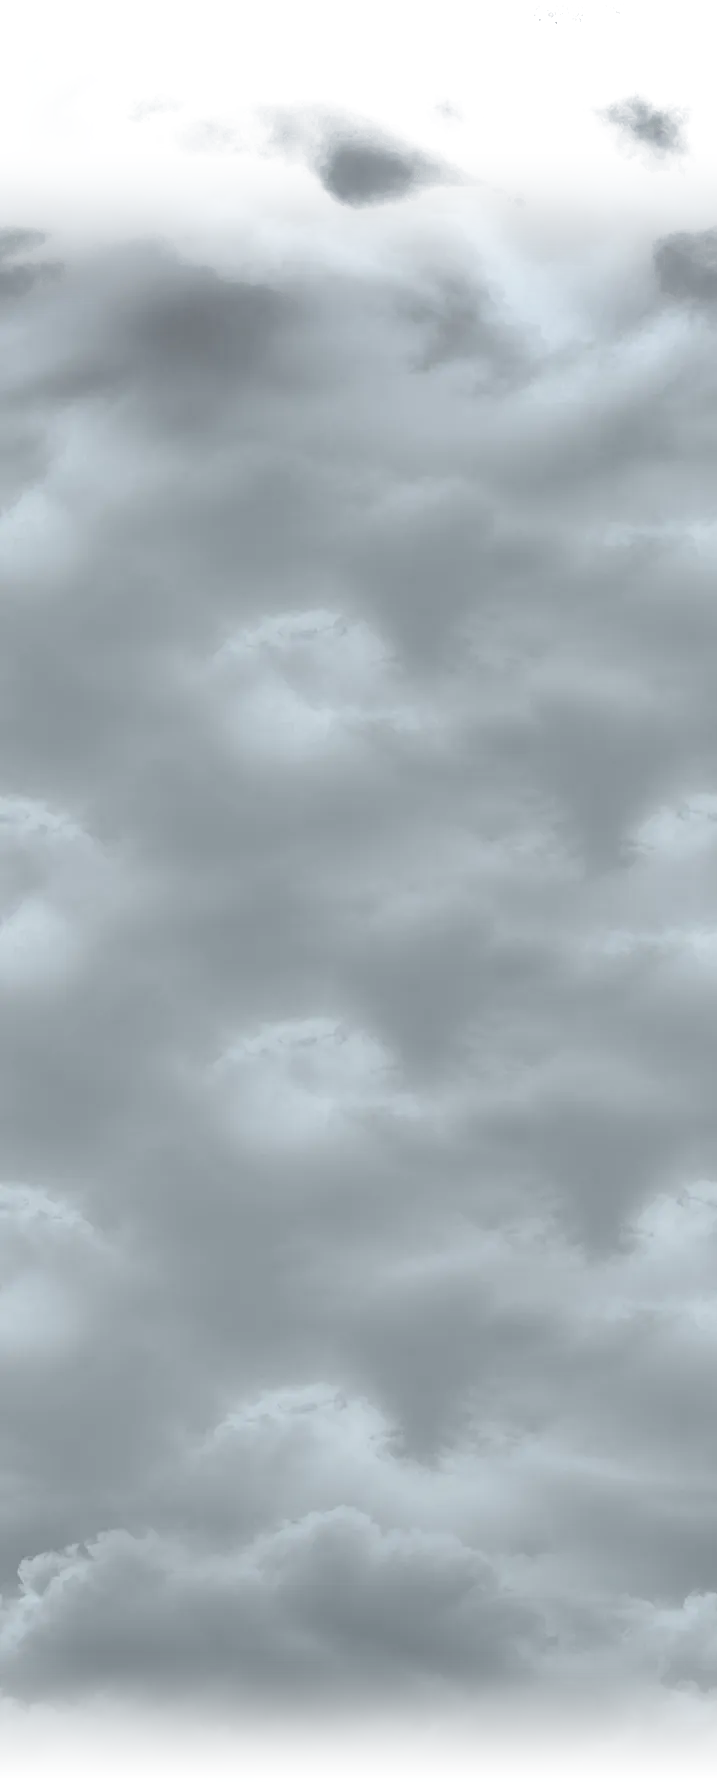
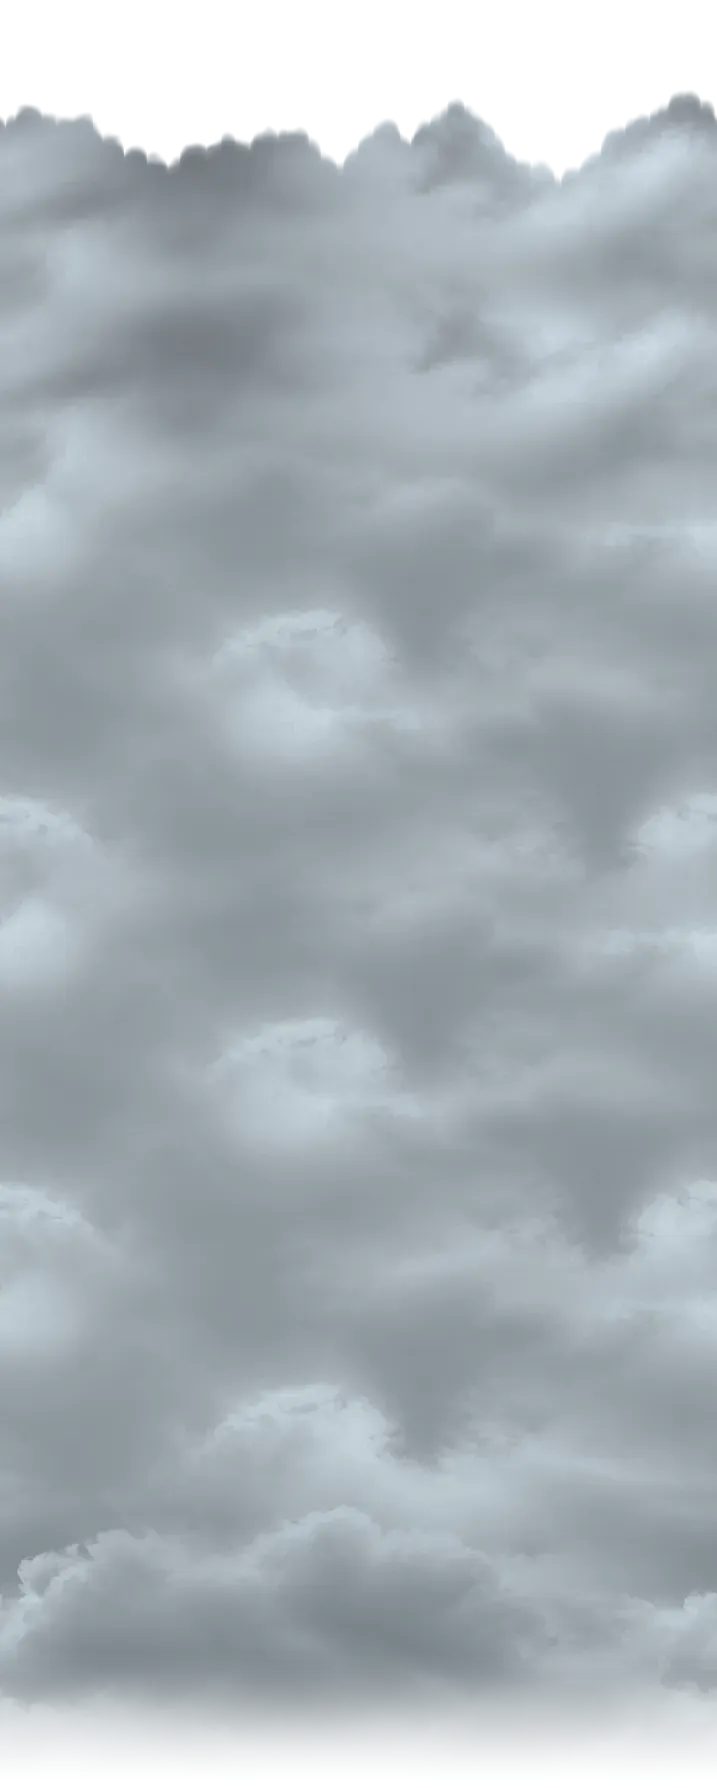
Clouds in layers (a try): a billowing bank edge and nearer puffs in front
The bank's top is now round billows piled on each other, so it covers the
logo a piece at a time instead of fading it. A nearer layer of soft puffs,
lit from above, passes in front of the logo and the logline and quotes,
faster than the bank and drifting sideways on its own. Both made by
tools/cloud_layers.py (the plain clouds kept in tools/). Before: the tag
pre-cloud-layers.

Changed region(s): [[0.0, 0.0308, 1.0, 0.1846]]

diff --git a/public/main.js b/public/main.js
@@ -22,6 +22,10 @@ const wash = film.querySelector(".film-wash");
 const filmStory = film.querySelector(".film-story");
 const story = filmStory.querySelector(".story");
 const introClouds = document.querySelector(".intro-clouds");
+const nearClouds = document.querySelector(".clouds-near");
+// The nearer clouds move this much faster than the bank; their top is at the top of the
+// screen when the bank's edge (11.5% down it) reaches the middle of the screen.
+const NEAR_SPEED = 1.3;
 const watch = document.querySelector(".intro-logo .watch");
 
 // 0 before a, 1 after b, linear in between.
@@ -72,6 +76,13 @@ function update() {
     q.style.opacity = fadeIn * (1 - fadeOut);
     q.style.transform = `translateY(${12 * (1 - fadeIn) - 12 * fadeOut}px)`;
   });
+
+  // The nearer clouds, ahead of the bank and faster.
+  const bankTop = introClouds.getBoundingClientRect().top;
+  const edgeAtMiddle = 0.5 * vh - 0.115 * introClouds.offsetHeight;
+  const nearY = NEAR_SPEED * (bankTop - edgeAtMiddle);
+  nearClouds.style.visibility = nearY < vh && nearY + nearClouds.offsetHeight > 0 ? "visible" : "hidden";
+  nearClouds.style.transform = `translate3d(0, ${nearY.toFixed(1)}px, 0)`;
 
   // The video plays (looping) while it's on screen and pauses when it isn't.
   const filmBox = film.getBoundingClientRect();
@@ -157,7 +168,9 @@ const sky = new Image();
 sky.src = "sky.webp";
 const clouds = new Image();
 clouds.src = "clouds.webp";
-const images = [logo, sky, clouds];
+const near = new Image();
+near.src = "clouds-near.webp";
+const images = [logo, sky, clouds, near];
 
 function showProgress() {
   const p = 0.75 * videoShare + 0.25 * (imagesDone / images.length);

diff --git a/public/style.css b/public/style.css
@@ -175,6 +175,35 @@ html, body { background: var(--page, #939ca2); transition: background-color 0.4s
   .clouds { animation: none; transform: none; }
 }
 
+/* Nearer clouds (clouds-near.webp: soft puffs down a tall strip, made by
+   tools/cloud_layers.py): in front of the logo and the texts, below the menu. Fixed to
+   the screen and moved by main.js, faster than the cloud bank, so they pass the logo
+   before the bank covers it and drift across the texts; they also drift sideways,
+   faster than the bank (three copies side by side, as for .clouds). */
+:root { --near-h: 360vh; }
+.clouds-near {
+  position: fixed;
+  top: 0;
+  left: 0;
+  right: 0;
+  z-index: 3;
+  height: var(--near-h);
+  overflow: hidden;
+  pointer-events: none;
+  visibility: hidden; /* until main.js places it */
+  will-change: transform;
+}
+.clouds-near-drift {
+  height: 100%;
+  width: calc(var(--near-h) * 0.5 * 3);
+  background: url(clouds-near.webp) left top / auto 100% repeat-x;
+  animation: cloud-drift 45s linear infinite;
+  will-change: transform;
+}
+@media (prefers-reduced-motion: reduce) {
+  .clouds-near-drift { animation: none; }
+}
+
 /* Where the text rides with the clouds; main.js slows it gently into the centre of
    the screen, holds it there for 50vh of scrolling, then lets it move on. */
 .cloud-text-track {

diff --git a/public/index.html b/public/index.html
@@ -102,6 +102,10 @@
       </figure>
     </div>
 
+  <!-- Nearer clouds: puffs that pass in front of the logo and the texts, faster than the
+       cloud bank (closer), drifting sideways on their own; main.js moves them. -->
+  <div class="clouds-near" aria-hidden="true"><div class="clouds-near-drift"></div></div>
+
   <script src="menu.js"></script>
   <script src="trailer.js"></script>
   <script src="main.js"></script>

diff --git a/tools/cloud_layers.py b/tools/cloud_layers.py
@@ -1,0 +1,102 @@
+"""Makes the near cloud layer (public/clouds-near.webp) and gives the main clouds a
+billowing top edge (public/clouds.webp, from the plain version). Needs numpy and Pillow.
+
+    python tools/cloud_layers.py tools/clouds-plain.webp <out dir>
+    cwebp -q 80 -alpha_q 88 <out dir>/clouds.png -o public/clouds.webp
+    cwebp -q 78 -alpha_q 85 <out dir>/clouds-near.png -o public/clouds-near.webp
+
+- noise that wraps at the sides (made in frequency space), so both still drift sideways
+  without a seam
+- clouds.webp: the band where the clouds begin gets lumps of cloud reaching up, so they
+  cover the logo a piece at a time
+- clouds-near.webp: separate puffs, lit from above (lighter tops, darker undersides),
+  scattered down a tall strip; it passes in front of the logo and the texts
+"""
+import sys
+import numpy as np
+from PIL import Image
+
+src, out = sys.argv[1], sys.argv[2]
+rng = np.random.default_rng(7)
+
+
+def smooth(a, b, x):
+    t = np.clip((x - a) / (b - a), 0, 1)
+    return t * t * (3 - 2 * t)
+
+
+def noise(h, w, scales):
+    """Fractal noise in 0..1 that wraps at all edges: white noise, low-passed in frequency space."""
+    fy = np.fft.fftfreq(h)[:, None]
+    fx = np.fft.fftfreq(w)[None, :]
+    total = np.zeros((h, w))
+    for scale, weight in scales:
+        g = np.exp(-(fx ** 2 + fy ** 2) * (np.pi * scale) ** 2 / 2)
+        n = np.real(np.fft.ifft2(np.fft.fft2(rng.standard_normal((h, w))) * g))
+        total += weight * (n - n.mean()) / n.std()
+    total = (total - total.min()) / (total.max() - total.min())
+    return total
+
+
+# Main clouds: a billowing top edge, like the top of a cumulus bank: overlapping round
+# billows of different sizes along the width (wrapping at the sides), filled with the
+# cloud texture from a little further down.
+im = np.asarray(Image.open(src).convert("RGBA")).astype(np.float32)
+H, W = im.shape[:2]
+ys, xs = np.mgrid[0:H, 0:W].astype(np.float32)
+base = 0.115 * H  # where the solid cloud used to start
+top = np.full(W, base + 6.0)
+cols = np.arange(W, dtype=np.float32)
+
+
+def billow(cx, cy, r):
+    dx = np.minimum(np.abs(cols - cx), W - np.abs(cols - cx))
+    inside = dx < r
+    top[inside] = np.minimum(top[inside], cy - np.sqrt(r * r - dx[inside] ** 2))
+
+
+# big billows side by side, overlapping; then smaller ones piled on their tops
+for cx in np.linspace(0, W, 12, endpoint=False) + rng.uniform(0, 60):
+    billow(cx % W, base + rng.uniform(10, 45), rng.uniform(48, 92))
+for r_lo, r_hi, count in ((18, 38, 26), (7, 16, 40)):
+    for _ in range(count):
+        cx = rng.uniform(0, W)
+        r = rng.uniform(r_lo, r_hi)
+        # its middle no higher than the bank where its sides land, so it sits on the
+        # bank (no straight sides)
+        sides = top[np.r_[int(cx - r) % W, int(cx + r) % W]].max()
+        billow(cx, sides + rng.uniform(0.0, 0.25) * r, r)
+fine = noise(H, W, [(W * 0.02, 0.7), (W * 0.008, 0.3)])
+edge_alpha = smooth(-5, 7, ys - top[None, :] + 14 * (fine - 0.5))
+shift = int(0.1 * H)
+upper = ys < base + 0.1 * H
+# above and around the old edge, the texture from a little further down, blending back
+# into the original below it
+moved = np.roll(im[..., :3], -shift, axis=0)
+k = smooth(base + 0.02 * H, base + 0.09 * H, ys)[..., None]
+rgb = moved * (1 - k) + im[..., :3] * k
+# billow tops a little lighter, as if lit from above
+light = smooth(14, 0, ys - top[None, :]) * upper
+rgb = rgb + (np.array([228, 233, 236]) - rgb) * (0.25 * light)[..., None]
+alpha = im[..., 3] / 255
+alpha = np.where(ys < base + 0.06 * H, edge_alpha, np.maximum(alpha, edge_alpha * upper))
+im = np.dstack([rgb, alpha[..., None] * 255])
+Image.fromarray(im.clip(0, 255).astype(np.uint8)).save(f"{out}/clouds.png")
+
+# Near layer: soft, mostly see-through puffs with the photo's cloud texture, lit from
+# above, scattered down a tall strip.
+h, w = 2400, 1200
+y = np.linspace(0, 1, h)[:, None]
+n = noise(h, w, [(320, 0.7), (120, 0.24), (40, 0.06)])
+cover = noise(h, 1, [(300, 1.0)])
+thr = 1 - (0.2 + 0.35 * cover)
+a = smooth(thr - 0.07, thr + 0.12, n)
+a *= smooth(0.0, 0.06, y) * (1 - smooth(0.9, 1.0, y))
+tex = np.asarray(Image.open(src).convert("RGB")).astype(np.float32)
+tex = tex[int(tex.shape[0] * 0.4):int(tex.shape[0] * 0.75)]
+tex = np.asarray(Image.fromarray(tex.astype(np.uint8)).resize((w, int(tex.shape[0] * w / tex.shape[1])))).astype(np.float32)
+tex = np.concatenate([tex, tex[::-1]] * (h // (2 * tex.shape[0]) + 1), 0)[:h]
+lum = tex.mean(2, keepdims=True)
+lit = np.clip(0.5 + 4.5 * (n - np.roll(n, 40, axis=0)) + 0.8 * (n - thr), 0, 1)[..., None]
+rgb = lum * (0.6 + 0.8 * lit) * np.array([0.95, 0.99, 1.02])  # brighter tops, darker undersides: they stand out from the bank behind
+Image.fromarray(np.dstack([rgb, a[..., None] * 215]).clip(0, 255).astype(np.uint8)).save(f"{out}/clouds-near.png")

diff --git a/README.md b/README.md
@@ -4,7 +4,7 @@ Static website, served by Render from `public/` (no build step).
 
 - `public/favicon.png`, `apple-touch-icon.png` — the icon: mountain ridges in the evening haze
 - `public/laurels.webp` — festival laurels at the top of the homepage, nine in one strip, each sized to the same visual weight, built from the trimmed originals in `tools/laurels/` (one row beside the menu button; on phones the same strip in one row above the logo, drifting right to left for ever and draggable (main.js))
-- `public/index.html`, `style.css`, `main.js` — homepage: logo over the sky photo (`sky.webp`), the storm clouds (`clouds.webp`, a seamless sideways tile drifting steadily with the wind; arriving over the top third of the video and scrolling on away as it zooms in, made from the storm photo by `tools/clouds.py`: a top edge shaped by the cloud forms, softened toward the film's overcast sky lower down, the thick middle extended, the bottom faded) scroll up over it carrying the logline and two press quotes (Screen Daily, then Variety; logos `press-*.png`), each cross-fading into the next and fade onto the film clip (`bg2-light.mp4`, 1280 wide and under 1 MB, is what the loading screen waits for; the full-quality `bg2.mp4`, 12 s, 1920×1072, H.264, no audio, then loads behind it and fades in over it, in step; `bg2-poster.webp`, its first frame, shows until it plays), which plays and loops on its own while on screen (on phones it starts 2 s in the first time, then loops whole; `bg2-poster-mobile.webp` is that frame); scrolling on zooms it straight in and blurs it (not fully); as it blurs, the poster (`poster.webp`), the synopsis and the About the film and trailer buttons come into focus in place, over the blurred video, still playing (on phones stacked: poster full width, heading, synopsis, buttons, footer, moved up by main.js over the pinned video as you scroll, from the moment it starts to show), and the page ends there. A loading screen (the light sky colour #939ca2, a small dark blue bar and percentage) holds the page until fonts, images and the clip are loaded; then the logo comes into focus
+- `public/index.html`, `style.css`, `main.js` — homepage: logo over the sky photo (`sky.webp`), the storm clouds (`clouds.webp`, a seamless sideways tile drifting steadily with the wind, its top a bank of round billows (`tools/cloud_layers.py`, from `tools/clouds-plain.webp`) so it covers the logo a piece at a time; nearer puffs, `clouds-near.webp`, pass in front of the logo and the texts, faster than the bank; arriving over the top third of the video and scrolling on away as it zooms in, made from the storm photo by `tools/clouds.py`: a top edge shaped by the cloud forms, softened toward the film's overcast sky lower down, the thick middle extended, the bottom faded) scroll up over it carrying the logline and two press quotes (Screen Daily, then Variety; logos `press-*.png`), each cross-fading into the next and fade onto the film clip (`bg2-light.mp4`, 1280 wide and under 1 MB, is what the loading screen waits for; the full-quality `bg2.mp4`, 12 s, 1920×1072, H.264, no audio, then loads behind it and fades in over it, in step; `bg2-poster.webp`, its first frame, shows until it plays), which plays and loops on its own while on screen (on phones it starts 2 s in the first time, then loops whole; `bg2-poster-mobile.webp` is that frame); scrolling on zooms it straight in and blurs it (not fully); as it blurs, the poster (`poster.webp`), the synopsis and the About the film and trailer buttons come into focus in place, over the blurred video, still playing (on phones stacked: poster full width, heading, synopsis, buttons, footer, moved up by main.js over the pinned video as you scroll, from the moment it starts to show), and the page ends there. A loading screen (the light sky colour #939ca2, a small dark blue bar and percentage) holds the page until fonts, images and the clip are loaded; then the logo comes into focus
 - `public/gate.js` — password screen on every page (remembered in the browser once entered). Keeps casual visitors out only: the files themselves stay reachable. To change the password, put its hash (see `hash()` in the file) in `HASH`
 - `public/trailer.js` — "Watch the trailer" buttons (under the logo and beside About the film) open the YouTube trailer in a player over the darkened page
 - `public/site.css`, `menu.js`, `menu.html` — shared styles and the menu (a pill at the top right: three lines, then MENU; it opens the menu as a page of its own, `menu.html`, in its own darker olive, so iPhone Safari's bands match it; the X goes back to the page you came from, where you were; pages cross-fade where browsers can): Home, About the film, Screenings & Awards, Press, Soundtrack, Community (listed at the top of `menu.js`; the page you are on in italics), and the footer on every page (credits, designer, Instagram, Facebook, IMDb, TMDB; on the homepage at the bottom of the synopsis screen)
